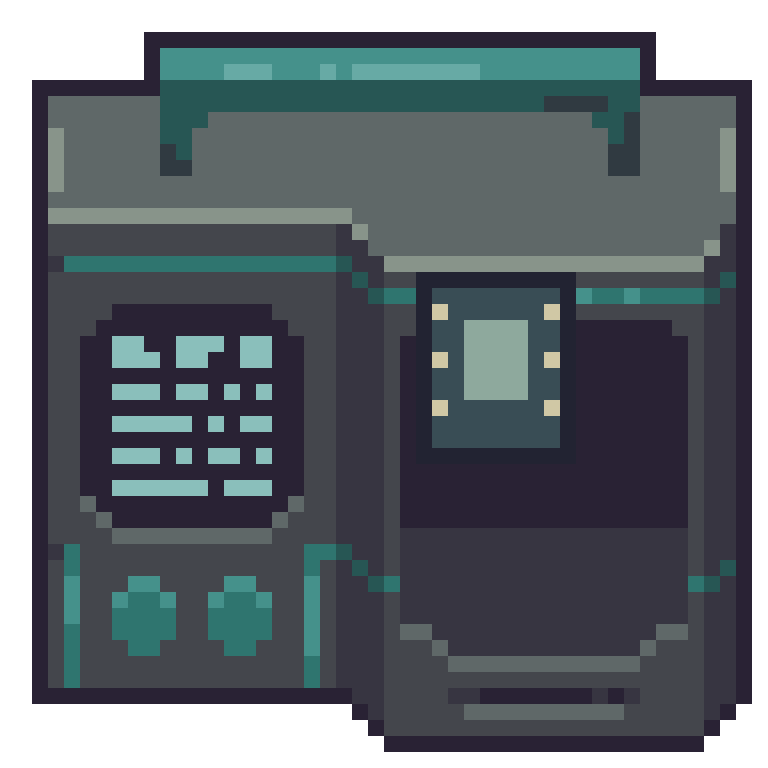
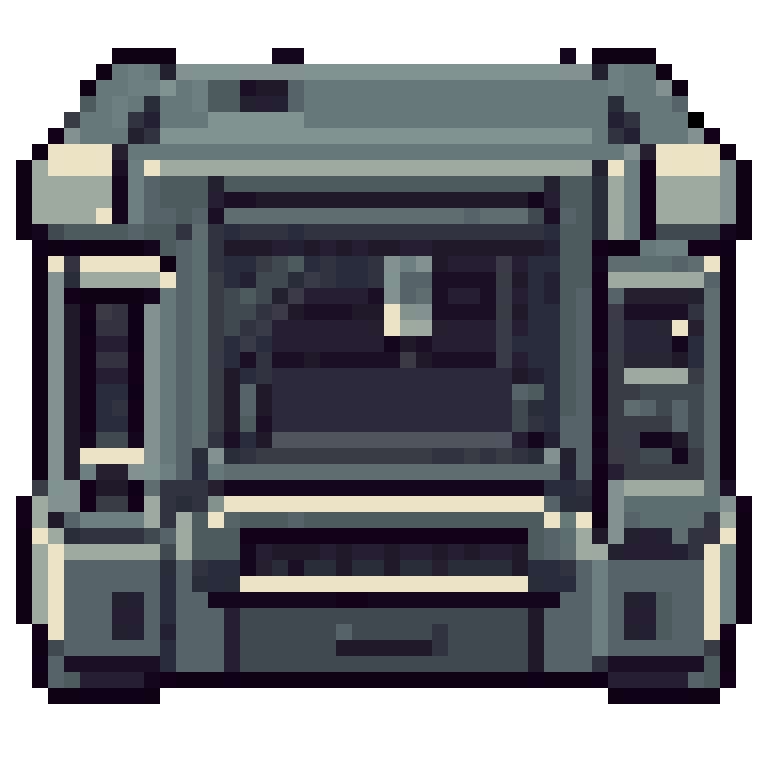
art: 空分机、提取机与模组装配台重绘，实验架玻璃器皿补细节
- 三台设备按 native 参考重绘母图，裁边后输出 48×48 硬透明运行时贴图，并补 _powered / _loaded / _powered_loaded 三态变体（空分机只取前两态）
- 实验架四态与玻璃器皿按取样色重绘，新增 machine-state-variants、machine-redraw-comparison 与 laboratory-rack-detail-comparison 预览
- 两份 WorkOrder 记录生成提示词与修改前后对照

diff --git a/ArtSource/WorkOrders/completed/2026-11-02-machine-redraw/README.md b/ArtSource/WorkOrders/completed/2026-11-02-machine-redraw/README.md
@@ -1,0 +1,31 @@
+# 空分机、提取机、模组装配台重绘
+
+使用内置 imagegen 工具分别生成三张透明母图，风格参考为 `ArtSource/References/native/` 中的 `evaporator.png`、`furnace.png` 和 `chem_finisher.png`。完整提示词见 `prompts.json`。
+
+- `air_separator-master.png`：双分离柱、蓝绿色出口色带与底部进气风机。
+- `rust_extractor-master.png`：左侧过滤柱、右侧含锈色沉积物的收集罐与底部收集抽屉。
+- `chip_fab-master.png`：封闭式自动装配机柜，观察窗内为加工头和电路板，正面设进料槽、成品出口与控制面板。该版本替换了先前的开放工作台设计，最终提示词见 `chip-fab-machine-prompt.json`（`prompts.json` 中的同名条目为初稿记录）。
+- `*-before.png`：本次重绘前的运行时贴图，仅供对比，不参与生成。
+
+在工程目录执行 `python tools/generate_native_fit_assets.py --machines-only`，由母图自动裁边、最近邻缩放、限制为最多 20 色，再应用 `tools/refine_machine_states.py` 中的局部像素修整。最终贴图不超过 32 色，输出 48×48 硬透明运行时贴图、768×768 最近邻源图，以及 `ArtSource/Previews/machine-redraw-comparison.png`。预览依次展示修改前 4 倍、修改后 4 倍与修改后原尺寸。
+
+完整素材生成入口也调用该步骤，避免旧版原版素材改色逻辑覆盖新设计。三件设备保持原有 3×3 占格与物品 ID；配方和生产逻辑未改动。
+
+## 状态精修
+
+以现有像素图为基础做确定性局部修改，没有重新生成母图。补回空分出口色带和电路板颜色；不同状态仅改变指示灯、罐内沉积物或电路板，机壳、管道、玻璃轮廓、透明掩码和占格完全一致。
+
+- 无后缀：缺电、空舱。
+- `_powered`：供电、空舱。指示灯表示电池满足至少一种配方的当前耗电量，包含模块修正；不表示完整配方已就绪。
+- `_loaded`：缺电、有料。
+- `_powered_loaded`：供电、有料。
+
+空分机直接取空气，没有材料槽，只使用前两种状态。提取机根据液体中的矿物或重金属含量是否大于零显示沉积物，清水与空容器不显示；不足一批时仍显示已有内容。装配机根据输入格是否有可接受材料显示内部电路板，材料不足或缺关键材料不等于可以开工。
+
+`Machines/ProcessMachineAppearance.cs` 在槽位增删、数量变化、夜间处理结束、读档、打开窗口和每秒刷新时同步状态；每秒刷新补充检测原地充电、耗电及液体成分变化。状态不变时不重复设置贴图。预览见 `ArtSource/Previews/machine-state-variants.png`，列顺序为缺电空舱、供电空舱、缺电有料、供电有料。
+
+原版依据来自本机 `Assembly-CSharp.dll`：`MachineEvaporator` 依据容器插拔切换 `evaporator` / `evaporator_b`；`MachineHydroponic.UpdateSprite` 依据加工状态、供电和用水切换 `hydroponic` / `hydroponic_off`。这是各机器自己的显示逻辑，`SetupBatterySlot` 并不会自动提供通用通电贴图。
+
+状态资产回归：`python tools/test_machine_states.py` 检查透明掩码、允许变化范围、供电与内容独立性、空提取罐不残留沉积物。运行时状态变化仍需实机验收。
+
+验证：`tools/check_textures.py` 通过，包含九个占格采样中心；工作区 `tests.test_elemental_industry_data` 共 30 项通过。未部署或进行实机验收。

diff --git a/ArtSource/WorkOrders/completed/2026-11-02-rack-glassware/README.md b/ArtSource/WorkOrders/completed/2026-11-02-rack-glassware/README.md
@@ -1,0 +1,12 @@
+# 实验架玻璃器皿细化
+
+使用内置 imagegen 工具，以用户提供的 `reference.png` 为样式参考，逐件生成透明瓶器母图。完整提示词见 `prompts.json`。
+
+- `amber_flask.png`：上层右侧锥形瓶。
+- `red_round_flask.png`：下层左侧圆底烧瓶。
+- `blue_beaker.png`：下层右侧烧杯。
+- `teal_cylinder.png`：上层左侧量筒。
+
+`tools/generate_native_fit_assets.py --rack-only` 将母图转换到确定的像素尺寸和共享色板，生成独立的 64×64 透明内容层，再叠加既有空架。该命令只生成实验架，不重绘气瓶、电池或其他设备。
+
+运行时仍按物品数量选择 0、1、2、3、4+ 状态。每个状态使用同一架体和同一份已加入的瓶器层，架体与已有瓶器不会随状态变化而重画。所有贴图维持 64×64、硬透明边缘和不超过 32 色，并同步输出 16 倍源图。
